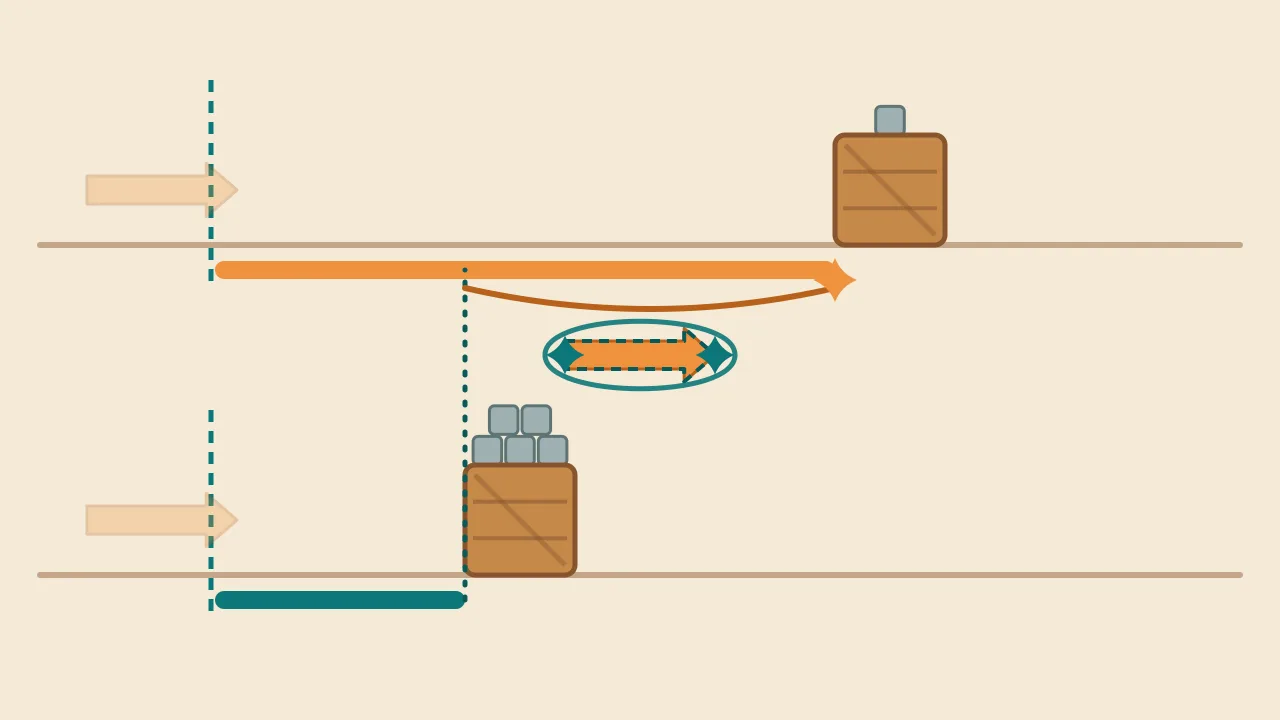
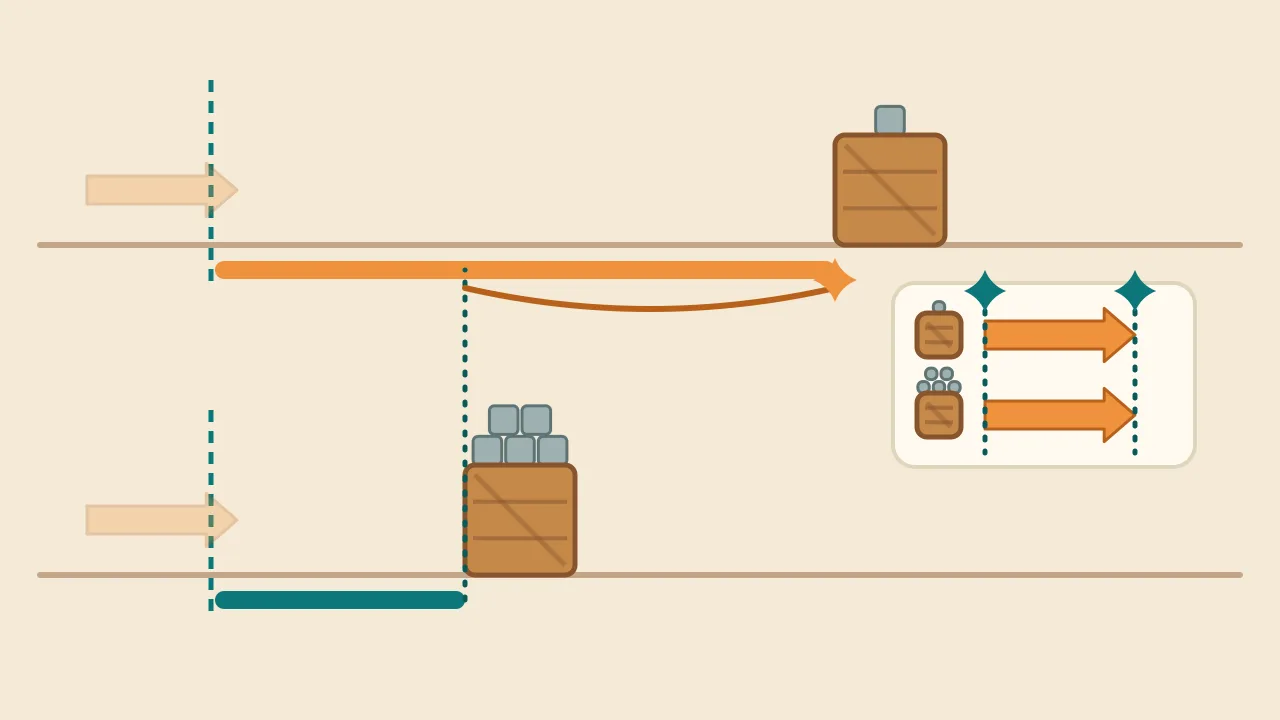
배송소 개념 영상 마지막 장면을 3학년 눈높이로
두 힘 화살표를 한 개처럼 겹치던 장면을, 비교판 위에 상자 그림과 함께 위아래로 나란히 세우고
시작·끝 점선으로 길이가 같음을 보이게 바꿈. 자막도 쉬운 말로.

Changed region(s): [[0.6875, 0.3667, 0.9375, 0.6722], [0.4062, 0.4278, 0.5938, 0.55]]

diff --git a/src/conceptClip.ts b/src/conceptClip.ts
@@ -11,7 +11,7 @@ const clips: Record<ConceptStage, Clip> = {
   cargo: { title: '같은 힘, 다른 무게', cues: [
     { at: 0, text: '같은 힘으로 부품 1개 상자와 5개 상자를 밀어요.' },
     { at: 2.9, text: '가벼운 상자가 더 멀리 갔어요. 흔적 막대의 길이를 비교해 봐요.' },
-    { at: 5.2, text: '두 힘 화살표를 겹치면 길이가 같아요. 힘은 같았어요!' },
+    { at: 5.2, text: '두 화살표를 위아래로 놓아 보니 길이가 똑같아요. 두 상자를 같은 힘으로 밀었어요!' },
   ] },
   balance: { title: '수평대가 기우는 까닭', cues: [
     { at: 0, text: '받침점에서 양쪽 접시까지의 거리가 같아요.' },
